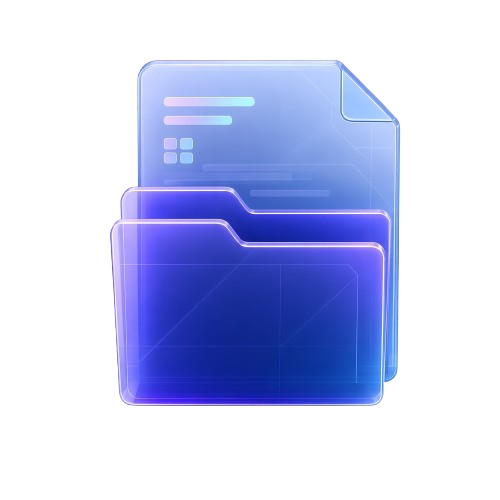
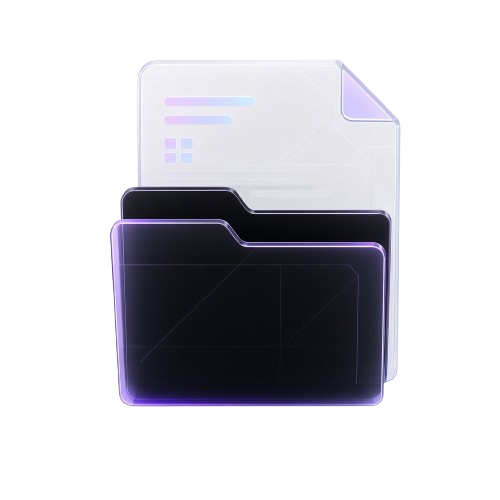
style(ui): Adjust titlebar and violet palette

diff --git a/src/ui/components/titlebar.rs b/src/ui/components/titlebar.rs
@@ -1,8 +1,8 @@
 //! Application-owned Linux title bar and resize handles.
 use crate::{app::FileManager, ui::icons::icon, ui::theme::*};
 use gpui::{
-    App, Context, CursorStyle, Div, ImageSource, MouseButton, Render, ResizeEdge, Resource,
-    Stateful, Window, div, img, prelude::*, px,
+    App, Context, CursorStyle, Div, MouseButton, Render, ResizeEdge, Stateful, Window, div,
+    prelude::*, px,
 };
 
 struct ControlHint(&'static str);
@@ -79,12 +79,6 @@ impl FileManager {
                     .items_center()
                     .gap_2()
                     .child(
-                        img(ImageSource::Resource(Resource::Embedded(
-                            "virial-gpui-logo.png".into(),
-                        )))
-                        .size(px(20.)),
-                    )
-                    .child(
                         div()
                             .text_size(px(11.))
                             .font_weight(gpui::FontWeight::SEMIBOLD)
@@ -97,7 +91,7 @@ impl FileManager {
                             .text_ellipsis()
                             .min_w_0()
                             .child(format!(
-                                "— {}",
+                                "- {}",
                                 self.location.title(&self.home, self.language)
                             )),
                     )

diff --git a/src/ui/theme.rs b/src/ui/theme.rs
@@ -1,16 +1,16 @@
-//! Compact, subdued dark theme inspired by the Virial logo.
+//! Compact dark theme with subtle violet accents.
 use gpui::{Hsla, rgb};
 
-pub const BACKGROUND: u32 = 0x0f0e17;
-pub const SIDEBAR: u32 = 0x16151f;
-pub const SURFACE: u32 = 0x1c1b28;
-pub const HOVER: u32 = 0x2b2a39;
-pub const BORDER: u32 = 0x323140;
+pub const BACKGROUND: u32 = 0x100e18;
+pub const SIDEBAR: u32 = 0x171520;
+pub const SURFACE: u32 = 0x1d1b2a;
+pub const HOVER: u32 = 0x2d2a3b;
+pub const BORDER: u32 = 0x353143;
 pub const TEXT: u32 = 0xe4e7eb;
-pub const MUTED: u32 = 0xa3aab3;
-pub const ACCENT: u32 = 0xaaa6c8;
-pub const ACCENT_BLUE: u32 = 0xa3a7c4;
-pub const SELECTED: u32 = 0x2c2b3d;
+pub const MUTED: u32 = 0xaaa5ba;
+pub const ACCENT: u32 = 0xb3a8d9;
+pub const ACCENT_BLUE: u32 = 0xaca4d4;
+pub const SELECTED: u32 = 0x302b43;
 pub const ERROR: u32 = 0xf2a6ad;
 pub const ERROR_BG: u32 = 0x392832;
 pub const ROW_HEIGHT: f32 = 34. * 0.78;

diff --git a/src/ui/icons.rs b/src/ui/icons.rs
@@ -27,10 +27,6 @@ const ASSETS: &[(&str, &[u8])] = &[
         include_bytes!("../../assets/icons/fullscreen.svg"),
     ),
     (
-        "virial-gpui-logo.png",
-        include_bytes!("../../assets/images/virial-gpui-logo.png"),
-    ),
-    (
         "icons/minimize.svg",
         include_bytes!("../../assets/icons/minimize.svg"),
     ),

diff --git a/src/ui/shell.rs b/src/ui/shell.rs
@@ -14,7 +14,7 @@ impl Render for FileManager {
             self.drop_hover = None;
         }
         window.set_window_title(&format!(
-            "{} — Virial",
+            "{} - Virial",
             self.location.description(self.language)
         ));
         let fullscreen = window.is_fullscreen();
